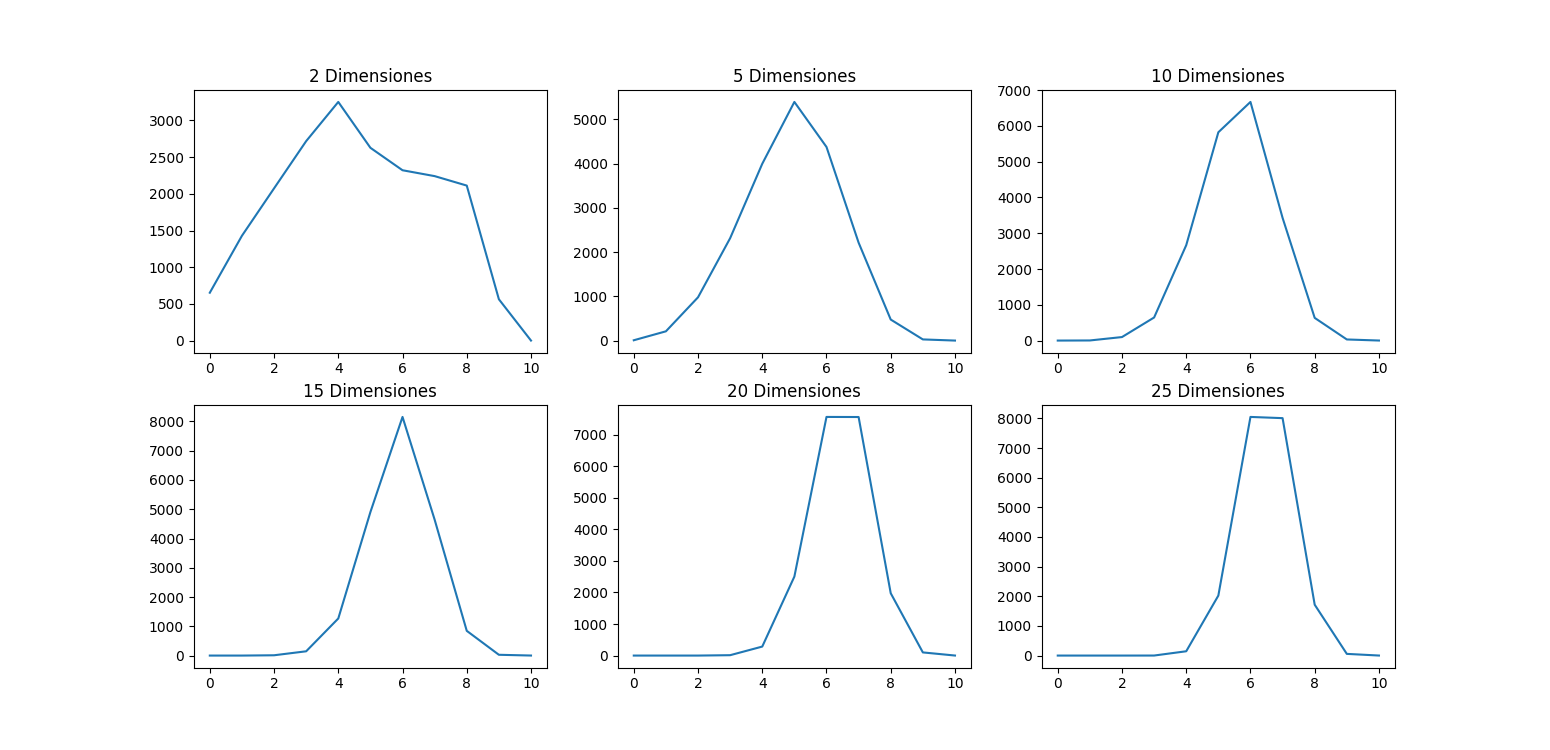
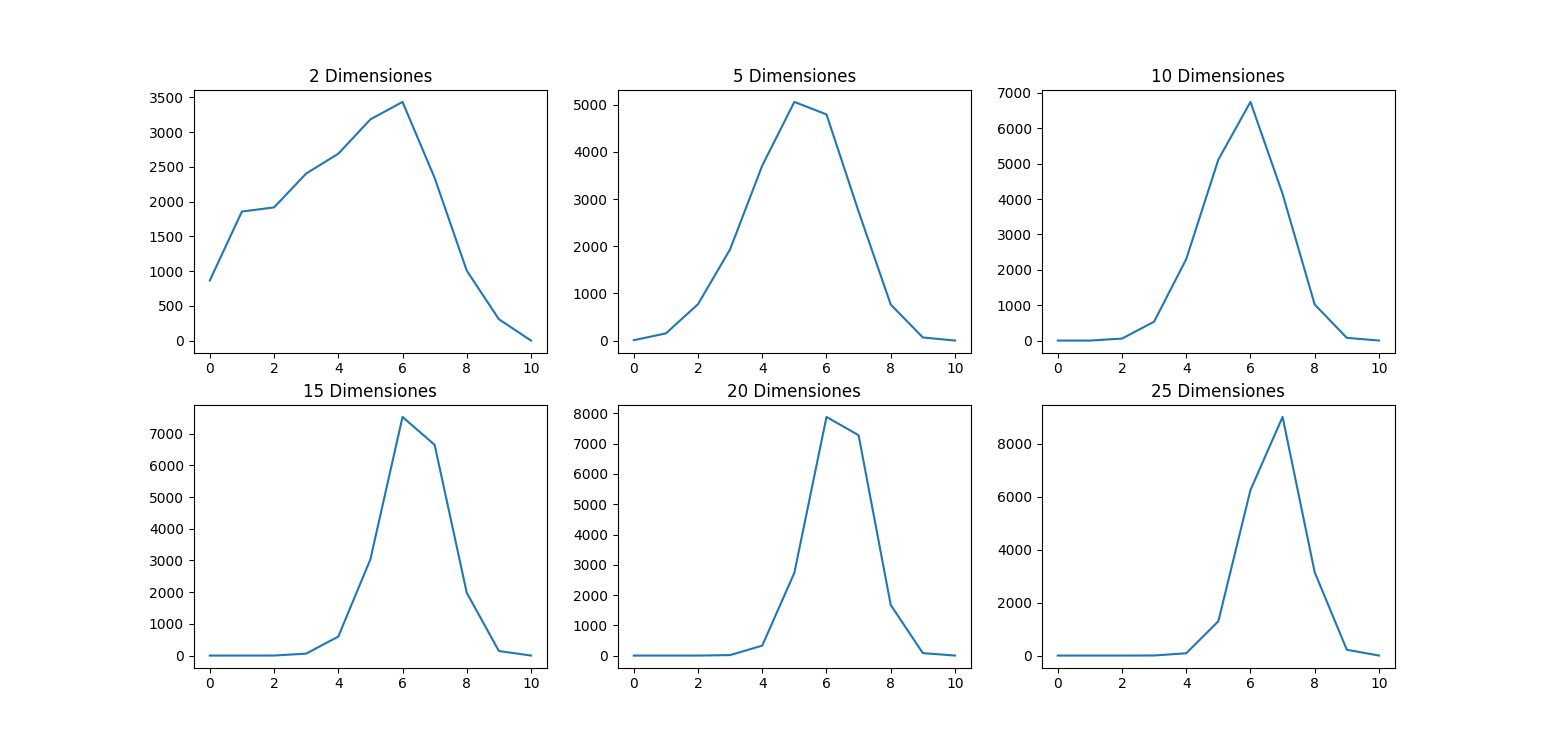
Final Tiempo

diff --git a/source/main.cpp b/source/main.cpp
@@ -7,96 +7,23 @@
 #include <iostream>
 #include <fstream>
 #include <iomanip>
+#include <chrono>
 #include <vector>
 #include <random>
 #include <math.h>
 #include <cstdlib>
 #include <map>
+
+//Libreria para pasar los vectores a Json
 #include "nlohmann/json.hpp"
 #include "nlohmann/json_fwd.hpp"
-//#include <matplotlibcpp.h>
-//
-//namespace plt = matplotlibcpp;
 
+// Numeros Random del 1 al 1000
 std::random_device rd;
 std::mt19937 gen(rd());
 std::uniform_int_distribution<> distrib(1, 1000);
 
-
-
-std::vector<int> maldicion2(int numPoints) {
-    int distanciasN = numPoints - 1;
-    int dim = 2;
-    std::vector<std::vector<int>> points(numPoints, std::vector<int>(dim));
-    std::vector<float> distancias(distanciasN);
-    std::vector<float> esc(distanciasN);
-    int punto;
-
-    for (int i = 0; i < numPoints; i++) {
-        for (int j = 0; j < dim; j++) {
-            points[i][j] = distrib(gen);
-        }
-    }
-
-    srand(time(0));
-    punto = (rand() % numPoints) + 1;
-
-    for (int i = 0, j = 0; i < numPoints; i++) {
-        if (i != punto) {
-            distancias[j] = sqrt(pow(points[punto][0] - points[i][0], 2) + pow(points[i][1] - points[punto][1], 2));
-            j++;
-        }
-    }
-
-    std::sort(distancias.begin(), distancias.end());
-    float aux;
-
-    for (int i = 0; i < distanciasN - 1; i++) {
-        aux = distancias[i] / distancias[distanciasN - 1];
-        esc[i] = static_cast<float>(static_cast<int>(aux * 10.)) / 10.;
-    }
-
-    esc[distanciasN - 1] = 1;
-
-    //for (auto i : esc) {
-    //    std::cout << i << std::endl;
-    //}
-
-    std::vector<int> f(11,0);
-    for (auto i : esc) {
-        if (i == float(0)) f[0]++;
-        else if (i == float(0.1)) f[1]++;
-        else if (i == float(0.2)) f[2]++;
-        else if (i == float(0.3)) f[3]++;
-        else if (i == float(0.4)) f[4]++;
-        else if (i == float(0.5)) f[5]++;
-        else if (i == float(0.6)) f[6]++;
-        else if (i == float(0.7)) f[7]++;
-        else if (i == float(0.8)) f[8]++;
-        else if (i == float(0.9)) f[9]++;
-        else if (i == float(1)) f[10]++;
-    }
-    float x = 0;
-    for (auto i : f) {
-        std::cout <<"De "<< x <<" hay " << i << std::endl;
-        x += 0.1;
-    }
-    //std::map<float, int> duplicate;
-    //auto beg = begin(esc);
-    //for (; beg != end(esc); ++beg) {
-    //    if (*beg == *(beg)) {
-    //        duplicate[*beg]++;
-    //    }
-    //}
-
-    //for (const auto& i : duplicate){
-    //    std::cout << i.first << " appear " << i.second << " times" << '\n';
-    //}
-    //}
-
-    return f;
-}
-
+// Funcion para generar los vectores
 std::vector<int> maldicion(int numPoints, int dim) {
     int distanciasN = numPoints - 1;
     std::vector<std::vector<int>> points(numPoints, std::vector<int>(dim));
@@ -104,16 +31,19 @@ std::vector<int> maldicion(int numPoints, int dim) {
     std::vector<float> esc(distanciasN);
     int punto;
 
+    //Llenar los parametros de los puntos con numeros random
     for (int i = 0; i < numPoints; i++) {
         for (int j = 0; j < dim; j++) {
             points[i][j] = distrib(gen);
         }
     }
 
+    //Escoger un punto aleatorio
     srand(time(0));
     punto = (rand() % numPoints - 1);
     int powersum = 0;
 
+    //Hallar distancia euclidiana de todos los puntos con el punto aleatorio
     for (int i = 0, j = 0; i < numPoints; i++) {
         if (i != punto) {
             /*distancias[j] = sqrt(pow(points[punto][0] - points[i][0], 2) + pow(points[i][1] - points[punto][1], 2));*/
@@ -126,9 +56,11 @@ std::vector<int> maldicion(int numPoints, int dim) {
         }
     }
 
+    //Ordenar las distancias
     std::sort(distancias.begin(), distancias.end());
     float aux;
 
+    //Vector final con respecto a la distancia mayor
     for (int i = 0; i < distanciasN - 1; i++) {
         aux = distancias[i] / distancias[distanciasN - 1];
         esc[i] = static_cast<float>(static_cast<int>(aux * 10.)) / 10.;
@@ -140,6 +72,7 @@ std::vector<int> maldicion(int numPoints, int dim) {
     //    std::cout << i << std::endl;
     //}
 
+    // Contar las distancias de 0 a 1
     std::vector<int> f(11, 0);
     for (auto i : esc) {
         if (i == float(0)) f[0]++;
@@ -176,15 +109,19 @@ std::vector<int> maldicion(int numPoints, int dim) {
 }
 
 int main(){
-    /*std::vector<int> first;
-    first = maldicion2(20000, 2);*/
-    
+
+    // Inicializar tiempo para que mida el tiempo en la generacion de vectores finales
+    std::chrono::time_point<std::chrono::high_resolution_clock> start, end;
+    start = std::chrono::high_resolution_clock::now();
+
+    // Inicializar vectores
     std::vector<int> p2;
     std::vector<int> p5;
     std::vector<int> p10;
     std::vector<int> p15;
     std::vector<int> p20;
     std::vector<int> p25;
+    // Llenar los vectores dependiendo de sus elementos y sus dimensiones
     p2 = maldicion(20000, 2);
     p5 = maldicion(20000, 5);
     p10 = maldicion(20000, 10);
@@ -192,6 +129,7 @@ int main(){
     p20 = maldicion(20000, 20);
     p25 = maldicion(20000, 25);
 
+    // Rellenar json con el contenido de los vectores
     nlohmann::json j;
 
     j["2 Dimensiones"] = p2;
@@ -201,6 +139,7 @@ int main(){
     j["20 Dimensiones"] = p20;
     j["25 Dimensiones"] = p25;
 
+    // Imprimir el valor de los vectores en consola
     std::cout << "2 Dimensiones: ";
     for (auto i : p2) {
         std::cout << i << " ";
@@ -237,44 +176,18 @@ int main(){
     }
     std::cout << std::endl;
 
+    end = std::chrono::high_resolution_clock::now();
+
+    int64_t duration1 = std::chrono::duration_cast<std::chrono::nanoseconds>(end - start).count();
+  
+    // Escribir en vector.json
     std::ofstream o("../source/vector.json");
     o << std::setw(4) << j << std::endl;
-    
+
+    // Ejecutar Script de Python que utiliza matplotlib para imprimir los vectores
     system("python ../source/graficas.py");
-//    plt::plot(p2);
-//    plt::title("2 Dimensiones");
-//    plt::show();
-//    plt::plot(p5);
-//    plt::title("5 Dimensiones");
-//    plt::show();
-//    plt::plot(p10);
-//    plt::title("10 Dimensiones");
-//    plt::show();
-//    plt::plot(p15);
-//    plt::title("15 Dimensiones");
-//    plt::show();
-//    plt::plot(p20);
-//    plt::title("20 Dimensiones");
-//    plt::show();
-//    plt::plot(p25);
-//    plt::title("25 Dimensiones");
-//    plt::show();
-//    plt::save("1.png");
-//    //plt::plot(p2);
-//    //plt::plot(p5);
-//    //plt::plot(p10);
-//    //plt::plot(p15);
-//    //plt::plot(p20);
-//    //plt::plot(p25);
-//    
-///*    plt::named_plot("2 Dim", p2);
-//    plt::named_plot("5 Dim", p5);
-//    plt::named_plot("10 Dim", p10);
-//    plt::named_plot("15 Dim", p15);
-//    plt::named_plot("20 Dim", p20);
-//    plt::named_plot("25 Dim", p25);
-//    
-//    plt::legend();
-//    plt::show(); */ 
+
+    std::cout << "El tiempo para generar los vectores es: " << duration1 << " nanosegundos." << std::endl;
+
 }
 
